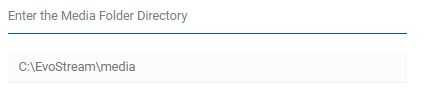
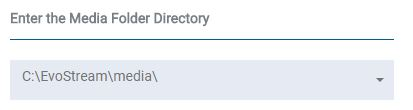
updates

diff --git a/pages/userguide/userguide_configlua.md b/pages/userguide/userguide_configlua.md
@@ -954,20 +954,21 @@ Settings for the server-wide event sinks.
 ```
 eventLogger=
 			{
+				--customData=123,
 				sinks=
 				{
 					--[=[
 					{
 						type="file",
 						--[[
-						customData =
+						customData=
 						{
 							some="string",
 							number=123.456,
 							array={1, 2.345, "Hello world", true, nil}
 						},
 						]]--
-						filename="..\\logs\\events.txt",
+						filename="C:\\EvoStream_2.0_5477\\logs\\events.txt",
 						format="text",
 						--format="xml",
 						--format="json",
@@ -980,10 +981,10 @@ eventLogger=
 						fileChunkTime="18:00:00",
 						]]--
 						enabledEvents=
-						{
+						{	-- common events enabled by default for eventLogger type "file":
 							"inStreamCreated",
 							"outStreamCreated",
-							--removed other list of event for clarity--	
+							-- NOTE: add more events by copying items from the sorted list of VALID EVENTS below
 						},
 					},
 ```
@@ -992,41 +993,70 @@ eventLogger=
 
 1. This section is disabled by default. 
 
-2. The event log files will be stored in the path where EMS logs are configured
+2. You can add more events in the list below.
+
+3. The event log files will be stored in the path where EMS logs are configured
 
    
 
-**B. RPC**
+**B. RPC - Evowebservices** 
 
 ```
-
-					{
+{
 						type="RPC",
-						url="http://127.0.0.1:4100/evowebservices/evowebservices",
+						url="http://127.0.0.1:4000/evowebservices",
 						serializerType="JSON",
 						enabledEvents=
-						{  --These are the events sent by default and tend to be the most commonly used
+						{	-- common events enabled by default for eventLogger type "RPC":
 							"inStreamCreated",
-                                 "outStreamCreated",
-                                 "inStreamClosed",
-                                 "outStreamClosed",
-							"streamingSessionStarted",
-                                 "streamingSessionEnded",
-                                 "recordChunkClosed",
+							"inStreamClosed",
+							"outStreamCreated",
+							"outStreamClosed",
+							"timerTriggered",
+							"hdsMasterPlaylistUpdated",
+							"hdsChildPlaylistUpdated",
+							"hdsChunkClosed",
+							"hlsMasterPlaylistUpdated",
 							"hlsChunkClosed",
-							--removed other list of event for clarity--						
+							"dashPlaylistUpdated",
+							"dashChunkClosed",
 						},
 					},
-				},
-			},
 ```
 
 **Notes:** 
 
 1. This section is enabled by default. 
 2. Replace URL depending on the evowebservices to be used (Node.js or PHP). See evowebservices user guide
+3. These are the events are used by EMS webservices, no need to make any changes on this configuration
 
-See [Event Notification System](eventoverview.html) for more information.
+
+
+**B. RPC - WebUI** 
+
+```
+{
+						type="RPC",
+						url="http://127.0.0.1:4100/streams/update-list",
+						serializerType="JSON",
+						enabledEvents=
+						{	-- common events enabled by default for eventLogger type "RPC":
+							"inStreamCreated",
+							"inStreamClosed",
+							"outStreamCreated",
+							"outStreamClosed",
+							"processStarted",
+							"processStopped",
+							"recordChunkCreated",
+							"recordChunkClosed",
+							"webRtcServiceStarted",
+							"webRtcServiceStopped",
+						},
+```
+
+**Note:**
+
+- These events are used by EMS Web UI, no need to make any changes on this configuration
 
 
 

diff --git a/pages/userguide/userguide_active.md b/pages/userguide/userguide_active.md
@@ -7,17 +7,15 @@ folder: userguide
 toc: true
 ---
 
+Provides a detailed description of all active streams. Select from Inbound  Streams, Outbound Streams or Adaptive HTTP Stream.
 
-
-Provides a detailed description of all active streams. 
-
-**Note:** This page is refreshing when there is an update with the EMS connection.
+![](images/userguide/activedropdown.jpg)
 
 
 
-## Inbound Live Stream
+## Inbound Streams
 
-Displays the list of all active pulled streams
+Displays the list of all active inbound stream
 
 ![](images/userguide/Active_inbound.JPG)
 
@@ -28,9 +26,22 @@ Displays the list of all active pulled streams
 
 
 
+### Playing Inbound Streams
+
+All active playable inbound streams can be played using the Web UI. SImply click on the play button to start streaming!
+
+![](images/userguide/active_playhtml5.JPG)
+
+**Notes:**
+
+- The HTML5 player uses the evohtml5player-2.0.13.bundle.js
+- Unique window in each playback
+
+
+
 ## Outbound Streams
 
-Displays the list of outbound streams
+Displays the list of all active outbound streams
 
 ![](images/userguide/Active_outbound.JPG)
 
@@ -46,6 +57,8 @@ Displays the list of active HTTP streams
 
 ![](images/userguide/Active_http.jpg)
 
+
+
 - ![](images/userguide/Config_info.JPG)   **Information** - displays the stream information in a new window
 - ![](images/userguide/VOD_play.JPG)   **Play** - streams the HTTP file
 - ![](images/userguide/VOD_delete.JPG)   **Delete** - deletes the stream in the configuration
@@ -53,16 +66,33 @@ Displays the list of active HTTP streams
 
 
 
-## File Media
-
-Displays the list active VOD streams
-
-![](images/userguide/Active_file.JPG)
-
-- ![](images/userguide/Config_info.JPG)   **Information** - displays the stream information in a new window
-- ![](images/userguide/VOD_play.JPG)   **Play** - streams the VOD files
 
 
+**Note:**
+
+- The Active page is automatically refreshing when there is an update with the EMS.
+
+
+
+## Playing HTTP Streams
+
+The Web UI can now play HLS and DASH streams. Simply click on the Play button and start streaming!
+
+#### Play HLS Stream
+
+![](images/userguide/active_playhls.JPG)
+
+
+
+#### Play DASH Stream
+
+![](images/userguide/active_playdash.JPG)
+
+**Notes:**
+
+- The HLS player uses Video.js HLS build version 2.0.1
+- The DASH player uses DASH-IF v2.5.0-d389aed
+- Unique window in each playback
 
 ------
 

diff --git a/pages/api/generateServerPlaylist.md b/pages/api/generateServerPlaylist.md
@@ -19,7 +19,7 @@ Will create a server-side playlist with the specified sources.
 |   pathToFile   | string  |   true    |        *null*        | The path to the output server playlist file |
 | sourceOffsets  | integer |   false   | *zero-length string* | The corresponding offsets for the source streams/files listed in sources. This can be a comma-delimited list |
 |   durations    | integer |   false   | *zero-length string* | The corresponding durations for the source streams/files listed in sources. This can be a comma-delimited list |
-|     reset      | boolean |   false   |      0 *false*       | If **enabled**, will repeat playback from the start of the playlist |
+|     repeat     | boolean |   false   |      0 *false*       | If **enabled**, will repeat playback from the start of the playlist |
 
 
 
@@ -64,7 +64,7 @@ The JSON response contains the following details:
 - data – The data to parse
   - durations – An array of durations for each stream/file in the list, expressed in seconds
   - pathToFile – The full path and filename of the playlist file
-  - repear - If **enabled**, will repeat playback from the start of the playlist
+  - repeat - If **enabled**, will repeat playback from the start of the playlist
   - sourceOffsets – An array of offsets for each stream/file in the list
   - sources – An array of streams or media files
 

diff --git a/pages/userguide/userguide_add.md b/pages/userguide/userguide_add.md
@@ -6,15 +6,13 @@ folder: userguide
 toc: true
 ---
 
-
-
 This is where you can add a stream to your EMS. You can add simple streams and HTTP streams in this page.
 
 
 
 ## Adding Inbound Live Streams
 
-If you wan't to add a RTSP or RTMP stream, simply do the following:
+This is similar to the `pullStream` command. If you wan't to add a RTSP or RTMP stream, simply do the following:
 
 1. Choose  **Inbound Live Stream** under Choose the Stream Type to Add
 2. Enter the **URI Stream Source**
@@ -37,13 +35,13 @@ See [pullStream](api_pullStream.html) API for more information.
 
 Adding HTTP streams has made easy in this page. You can now create your HLS, DASH, HDS and MSS here.
 
-1. Choose the Stream Type ( HLS, DASH, HDS, MSS)
+1. Choose the  **HTTP Stream Type** (HLS, DASH, HDS, MSS)
 
-2. Choose the Stream Source
+2. Choose the **Stream Source**
 
    **Note:** List of Active streams will be shown under the Stream Source field. You can select more than one
 
-3. Enter Target Folder
+3. Enter **Target Folder**
 
    **Note:** Should use absolute path 
 
@@ -63,4 +61,5 @@ Adding HTTP streams has made easy in this page. You can now create your HLS, DAS
 
 - ![](images/userguide/clear.JPG)   - will clear inputs in fields
 - ![](images/userguide/viewstream.JPG)   - redirects to Active to view the stream in list
+
 

diff --git a/pages/userguide/userguide_vod.md b/pages/userguide/userguide_vod.md
@@ -7,27 +7,41 @@ folder: userguide
 toc: false
 ---
 
-
-
 The VOD page is where you can access your streams in your EMS media folder. You can **play** or **delete** your VOD files here.
 
 
 
-1. Enter the server's media folder directory
+1. Select the server's media folder directory to be viewed
 
    ![](images/userguide/VOD_dir.jpg)
 
-   **Note:** Should use absolute path
+   
+
+   **Note:** All media folder declared in config.lua or added using [`addStorage`](api_addStorage.html) will be listed in the drop down list
 
    
 
-2. Click on **Load the Files** to show files in the media folder
+2. The files will automatically listed in the table.
 
    ![](images/userguide/VOD_load.jpg)
 
 3. Select the **Action** you want to perform
 
-   ![](images/userguide/VOD_list.JPG)
+   
 
    - ![](images/userguide/VOD_play.JPG)   **Play** - streams the VOD file from the media folder
    - ![](images/userguide/VOD_delete.JPG)   **Delete** - deletes the VOD file in the media folder
+
+
+
+## Playing VOD
+
+Using the UI, you can stream your VOD in an instant. Just select on the list you want to play and click on the Play button
+
+![](images/userguide/vod_playvod.JPG)
+
+**Notes:** 
+
+- A window will open in every play instance
+- You can only play mp4 and vod files
+- The player uses JSplayer version 5.8.8
